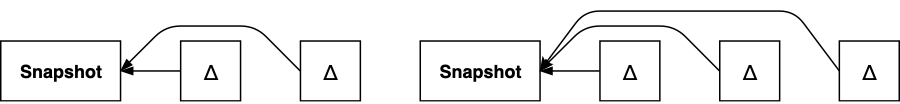
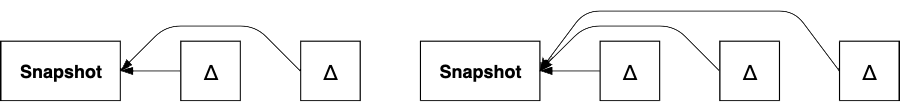
Make approach overview figures have transparent backgrounds

diff --git a/content/evaluation.md b/content/evaluation.md
@@ -50,21 +50,20 @@ OSTRICH with a forward unidirectional aggregated delta chain &nbsp;&nbsp;&nbsp;
 <figure id="evaluation-storage-approaches-cobra-star" class="subfigure">
 <img src="img/approach-cobra-star.png" alt="COBRA* storage approach" class="eval-storage-approach">
 <figcaption markdown="block">
-COBRA with a bidirectional aggregated delta chain before fix-up &nbsp;&nbsp;&nbsp;
+COBRA with a bidirectional aggregated delta chain *before* fix-up &nbsp;&nbsp;&nbsp;
 </figcaption>
 </figure>
 
 <figure id="evaluation-storage-approaches-cobra" class="subfigure">
 <img src="img/approach-cobra.png" alt="COBRA storage approach" class="eval-storage-approach">
 <figcaption markdown="block">
-COBRA with a bidirectional aggregated delta chain after fix-up (ingested out-of-order starting with snapshot)
+COBRA with a bidirectional aggregated delta chain *after* fix-up (ingested out-of-order starting with snapshot)
 </figcaption>
 </figure>
 
 <figcaption markdown="block">
 The different storage approaches used in our experiments.
 </figcaption>
-<span class="comment" data-author="RV">Perhaps transparent backgrounds?</span>
 </figure>
 
 In the scope of this work, we work with at most two delta chains.
